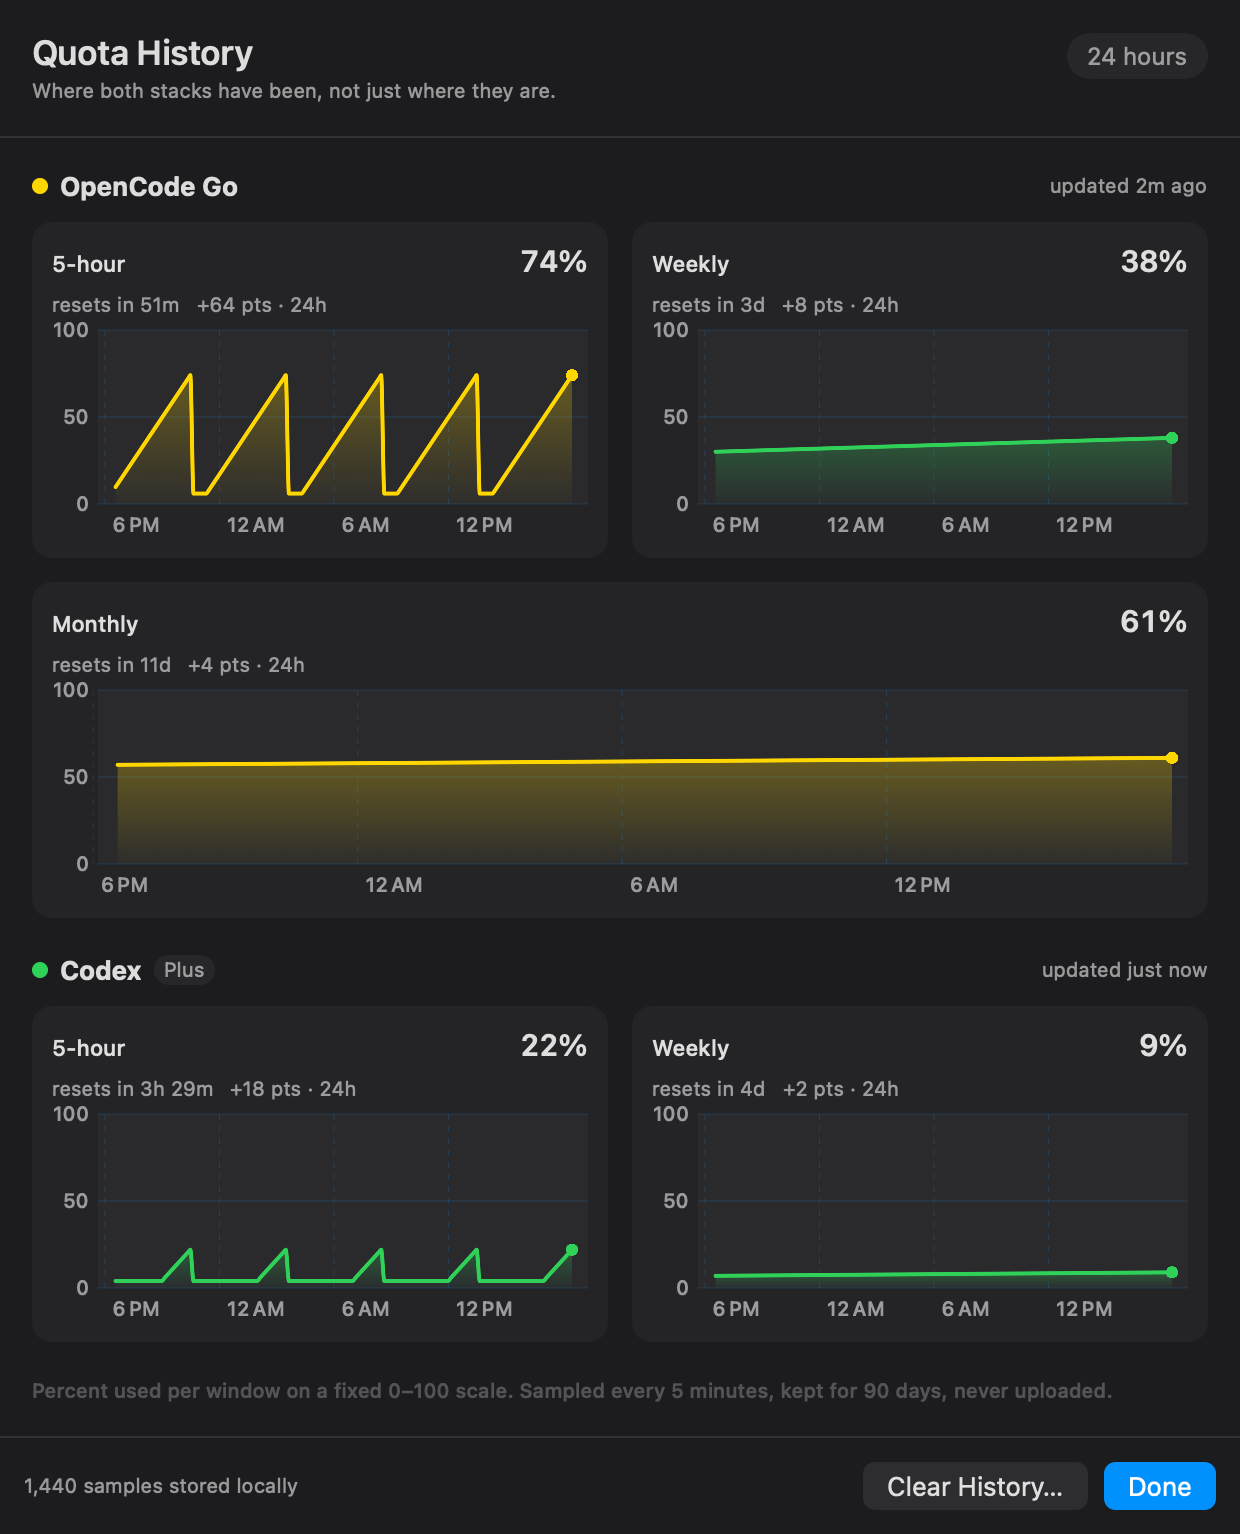
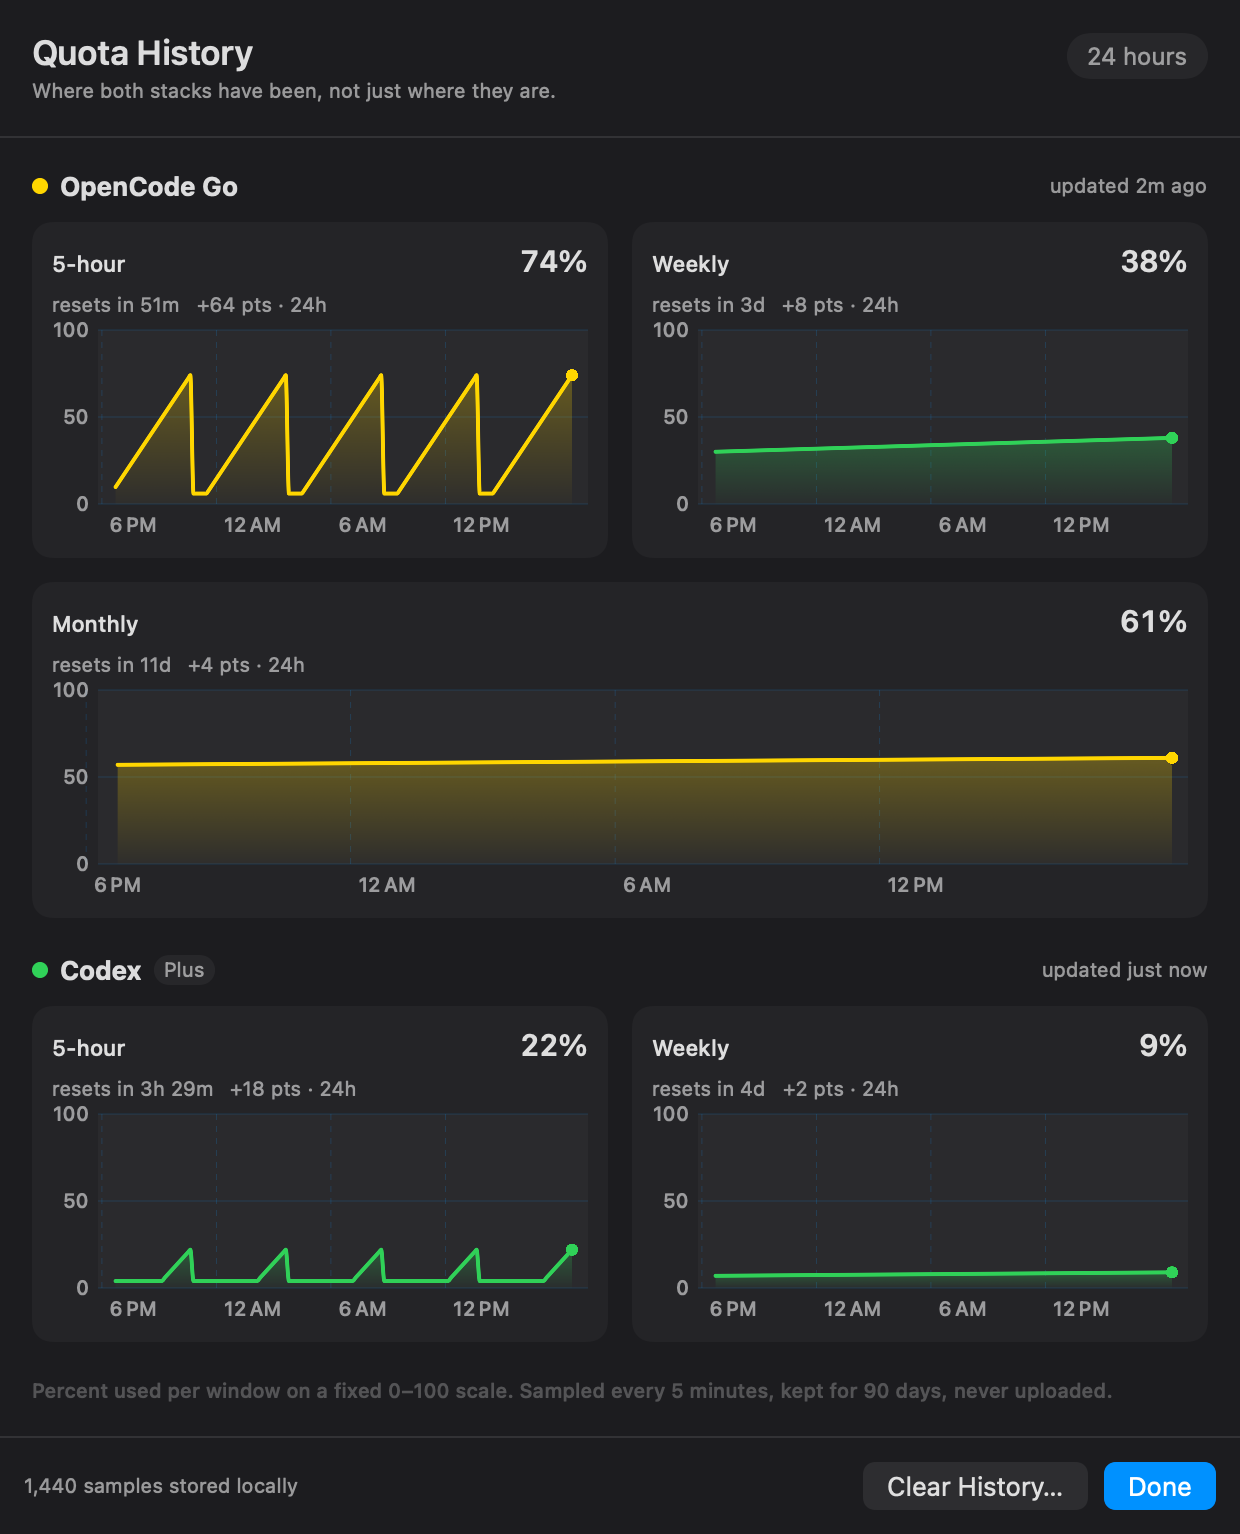
review fixes: cancel in-flight backfill before clearing, account-scoped history, caption contrast

diff --git a/Sources/QuotaBarKit/QuotaModel.swift b/Sources/QuotaBarKit/QuotaModel.swift
@@ -24,6 +24,7 @@ public final class QuotaModel: ObservableObject {
     private var timer: Timer?
     private var trendCache: [String: [SamplePoint]] = [:]
     private var lastPrune = Date.distantPast
+    private var backfillTask: Task<Void, Never>?
 
     public init(probes: QuotaProbes = QuotaProbes(), store: TelemetryStore? = nil, isDemo: Bool = false) {
         self.probes = probes
@@ -114,11 +115,16 @@ public final class QuotaModel: ObservableObject {
     }
 
     public func trend(provider: ProviderID, windowID: String, hours: Int = 24) -> [SamplePoint] {
-        let key = "\(provider.rawValue)|\(windowID)|\(hours)"
+        // Account-scoped: switching accounts must not blend two histories.
+        let accountRef = snapshots[provider]?.accountRef
+        let key = "\(provider.rawValue)|\(windowID)|\(hours)|\(accountRef ?? "-")"
         if let cached = trendCache[key] { return cached }
         guard let store else { return [] }
         let since = Date().addingTimeInterval(-Double(hours) * 3_600)
-        let points = downsample(store.series(provider: provider, windowID: windowID, since: since), max: 240)
+        let points = downsample(
+            store.series(provider: provider, windowID: windowID, since: since, accountRef: accountRef),
+            max: 240
+        )
         trendCache[key] = points
         return points
     }
@@ -127,7 +133,13 @@ public final class QuotaModel: ObservableObject {
         store?.observedWindowIDs(provider: provider) ?? []
     }
 
-    public func clearHistory() {
+    /// Cancels any in-flight import before deleting, so nothing can reappear
+    /// after the user confirms. Async because it waits for that cancellation.
+    public func clearHistory() async {
+        let inFlight = backfillTask
+        inFlight?.cancel()
+        backfillTask = nil
+        _ = await inFlight?.value
         store?.reset()
         // Keep the cleared state: a one-time Codex backfill must not resurrect
         // history the user just deleted.
@@ -157,14 +169,15 @@ public final class QuotaModel: ObservableObject {
     /// One-time import of the last 14 days of Codex rate-limit snapshots.
     /// Idempotent (primary key) and recorded in meta so it runs once.
     public func runCodexBackfillIfNeeded() {
-        guard let store else { return }
+        guard let store, backfillTask == nil else { return }
         let marker = store.meta("codex_backfill_v1")
         guard marker == nil || marker == "running" else { return }
         store.setMeta("codex_backfill_v1", "running")
-        Task.detached(priority: .utility) {
+        backfillTask = Task.detached(priority: .utility) { [weak self] in
             let since = Date().addingTimeInterval(-14 * 86_400)
             let observations = CodexLocalLog.observations(since: since)
             for observation in observations {
+                if Task.isCancelled { return }
                 let snapshot = ProviderSnapshot(
                     provider: .codex,
                     windows: observation.windows,
@@ -175,8 +188,10 @@ public final class QuotaModel: ObservableObject {
                 )
                 store.insert(snapshot)
             }
+            if Task.isCancelled { return }
             store.setMeta("codex_backfill_v1", "\(observations.count)")
             await MainActor.run { [weak self] in
+                self?.backfillTask = nil
                 self?.invalidateHistory()
             }
         }

diff --git a/Tests/QuotaBarKitTests/TelemetryStoreTests.swift b/Tests/QuotaBarKitTests/TelemetryStoreTests.swift
@@ -112,6 +112,27 @@ final class TelemetryStoreTests: XCTestCase {
                        snap.observedAt.timeIntervalSince1970, accuracy: 0.001)
     }
 
+    func testSeriesCanBeScopedToAccount() {
+        let now = Date()
+        for (offset, ref) in [(0.0, "acctA"), (-300.0, "acctB")] {
+            _ = store.insert(ProviderSnapshot(
+                provider: .codex,
+                windows: [QuotaWindow(id: "codex.primary", kind: .primary, label: "5-hour",
+                                      percent: 10 + offset / -30, resetsAt: nil,
+                                      windowMinutes: 300, isLimited: false)],
+                accountRef: ref,
+                origin: .network, source: "test",
+                observedAt: now.addingTimeInterval(offset)
+            ))
+        }
+        let scoped = store.series(provider: .codex, windowID: "codex.primary",
+                                  since: now.addingTimeInterval(-3_600), accountRef: "acctA")
+        XCTAssertEqual(scoped.count, 1)
+        let unscoped = store.series(provider: .codex, windowID: "codex.primary",
+                                    since: now.addingTimeInterval(-3_600))
+        XCTAssertEqual(unscoped.count, 2)
+    }
+
     func testStoreSurvivesReopen() throws {
         let url = FileManager.default.temporaryDirectory
             .appendingPathComponent("quotabar-store-\(UUID().uuidString).sqlite")
@@ -130,7 +151,7 @@ final class TelemetryStoreTests: XCTestCase {
 
 @MainActor
 final class QuotaModelHistoryTests: XCTestCase {
-    func testClearHistoryEmptiesStoreAndStopsBackfillFromReturning() throws {
+    func testClearHistoryEmptiesStoreAndStopsBackfillFromReturning() async throws {
         let store = try TelemetryStore.inMemory()
         defer { store.close() }
         let model = QuotaModel(store: store)
@@ -143,7 +164,7 @@ final class QuotaModelHistoryTests: XCTestCase {
         ))
         XCTAssertEqual(store.count(), 1)
 
-        model.clearHistory()
+        await model.clearHistory()
 
         XCTAssertEqual(store.count(), 0)
         XCTAssertEqual(model.historyCount, 0)

diff --git a/Sources/QuotaBarKit/TelemetryStore.swift b/Sources/QuotaBarKit/TelemetryStore.swift
@@ -110,11 +110,15 @@ public final class TelemetryStore: @unchecked Sendable {
 
     // MARK: reads
 
-    public func series(provider: ProviderID, windowID: String, since: Date) -> [SamplePoint] {
+    /// `accountRef == nil` means "any account" (Go has no account identity);
+    /// a value scopes the history so switching accounts never blends charts.
+    public func series(provider: ProviderID, windowID: String, since: Date,
+                       accountRef: String? = nil) -> [SamplePoint] {
         withLock { db in
             let sql = """
             SELECT observed_at, percent FROM sample
             WHERE provider = ? AND window_id = ? AND observed_at >= ?
+              AND (? IS NULL OR account_ref = ?)
             ORDER BY observed_at ASC LIMIT 5000
             """
             var stmt: OpaquePointer?
@@ -123,6 +127,8 @@ public final class TelemetryStore: @unchecked Sendable {
             bind(stmt, 1, provider.rawValue)
             bind(stmt, 2, windowID)
             sqlite3_bind_double(stmt, 3, since.timeIntervalSince1970)
+            if let accountRef { bind(stmt, 4, accountRef); bind(stmt, 5, accountRef) }
+            else { sqlite3_bind_null(stmt, 4); sqlite3_bind_null(stmt, 5) }
             var out: [SamplePoint] = []
             while sqlite3_step(stmt) == SQLITE_ROW {
                 out.append(SamplePoint(

diff --git a/Sources/QuotaBar/QuotaBarApp.swift b/Sources/QuotaBar/QuotaBarApp.swift
@@ -135,7 +135,7 @@ struct PopoverView: View {
                     isPresented: $confirmClearHistory,
                     titleVisibility: .visible
                 ) {
-                    Button("Delete History", role: .destructive) { model.clearHistory() }
+                    Button("Delete History", role: .destructive) { Task { await model.clearHistory() } }
                     Button("Cancel", role: .cancel) {}
                 } message: {
                     Text("Removes every stored observation on this Mac. Live percentages keep working; history restarts empty.")

diff --git a/Sources/QuotaBar/HistoryView.swift b/Sources/QuotaBar/HistoryView.swift
@@ -49,7 +49,7 @@ struct HistoryView: View {
             titleVisibility: .visible
         ) {
             Button("Delete History", role: .destructive) {
-                model.clearHistory()
+                Task { await model.clearHistory() }
             }
             Button("Cancel", role: .cancel) {}
         } message: {
